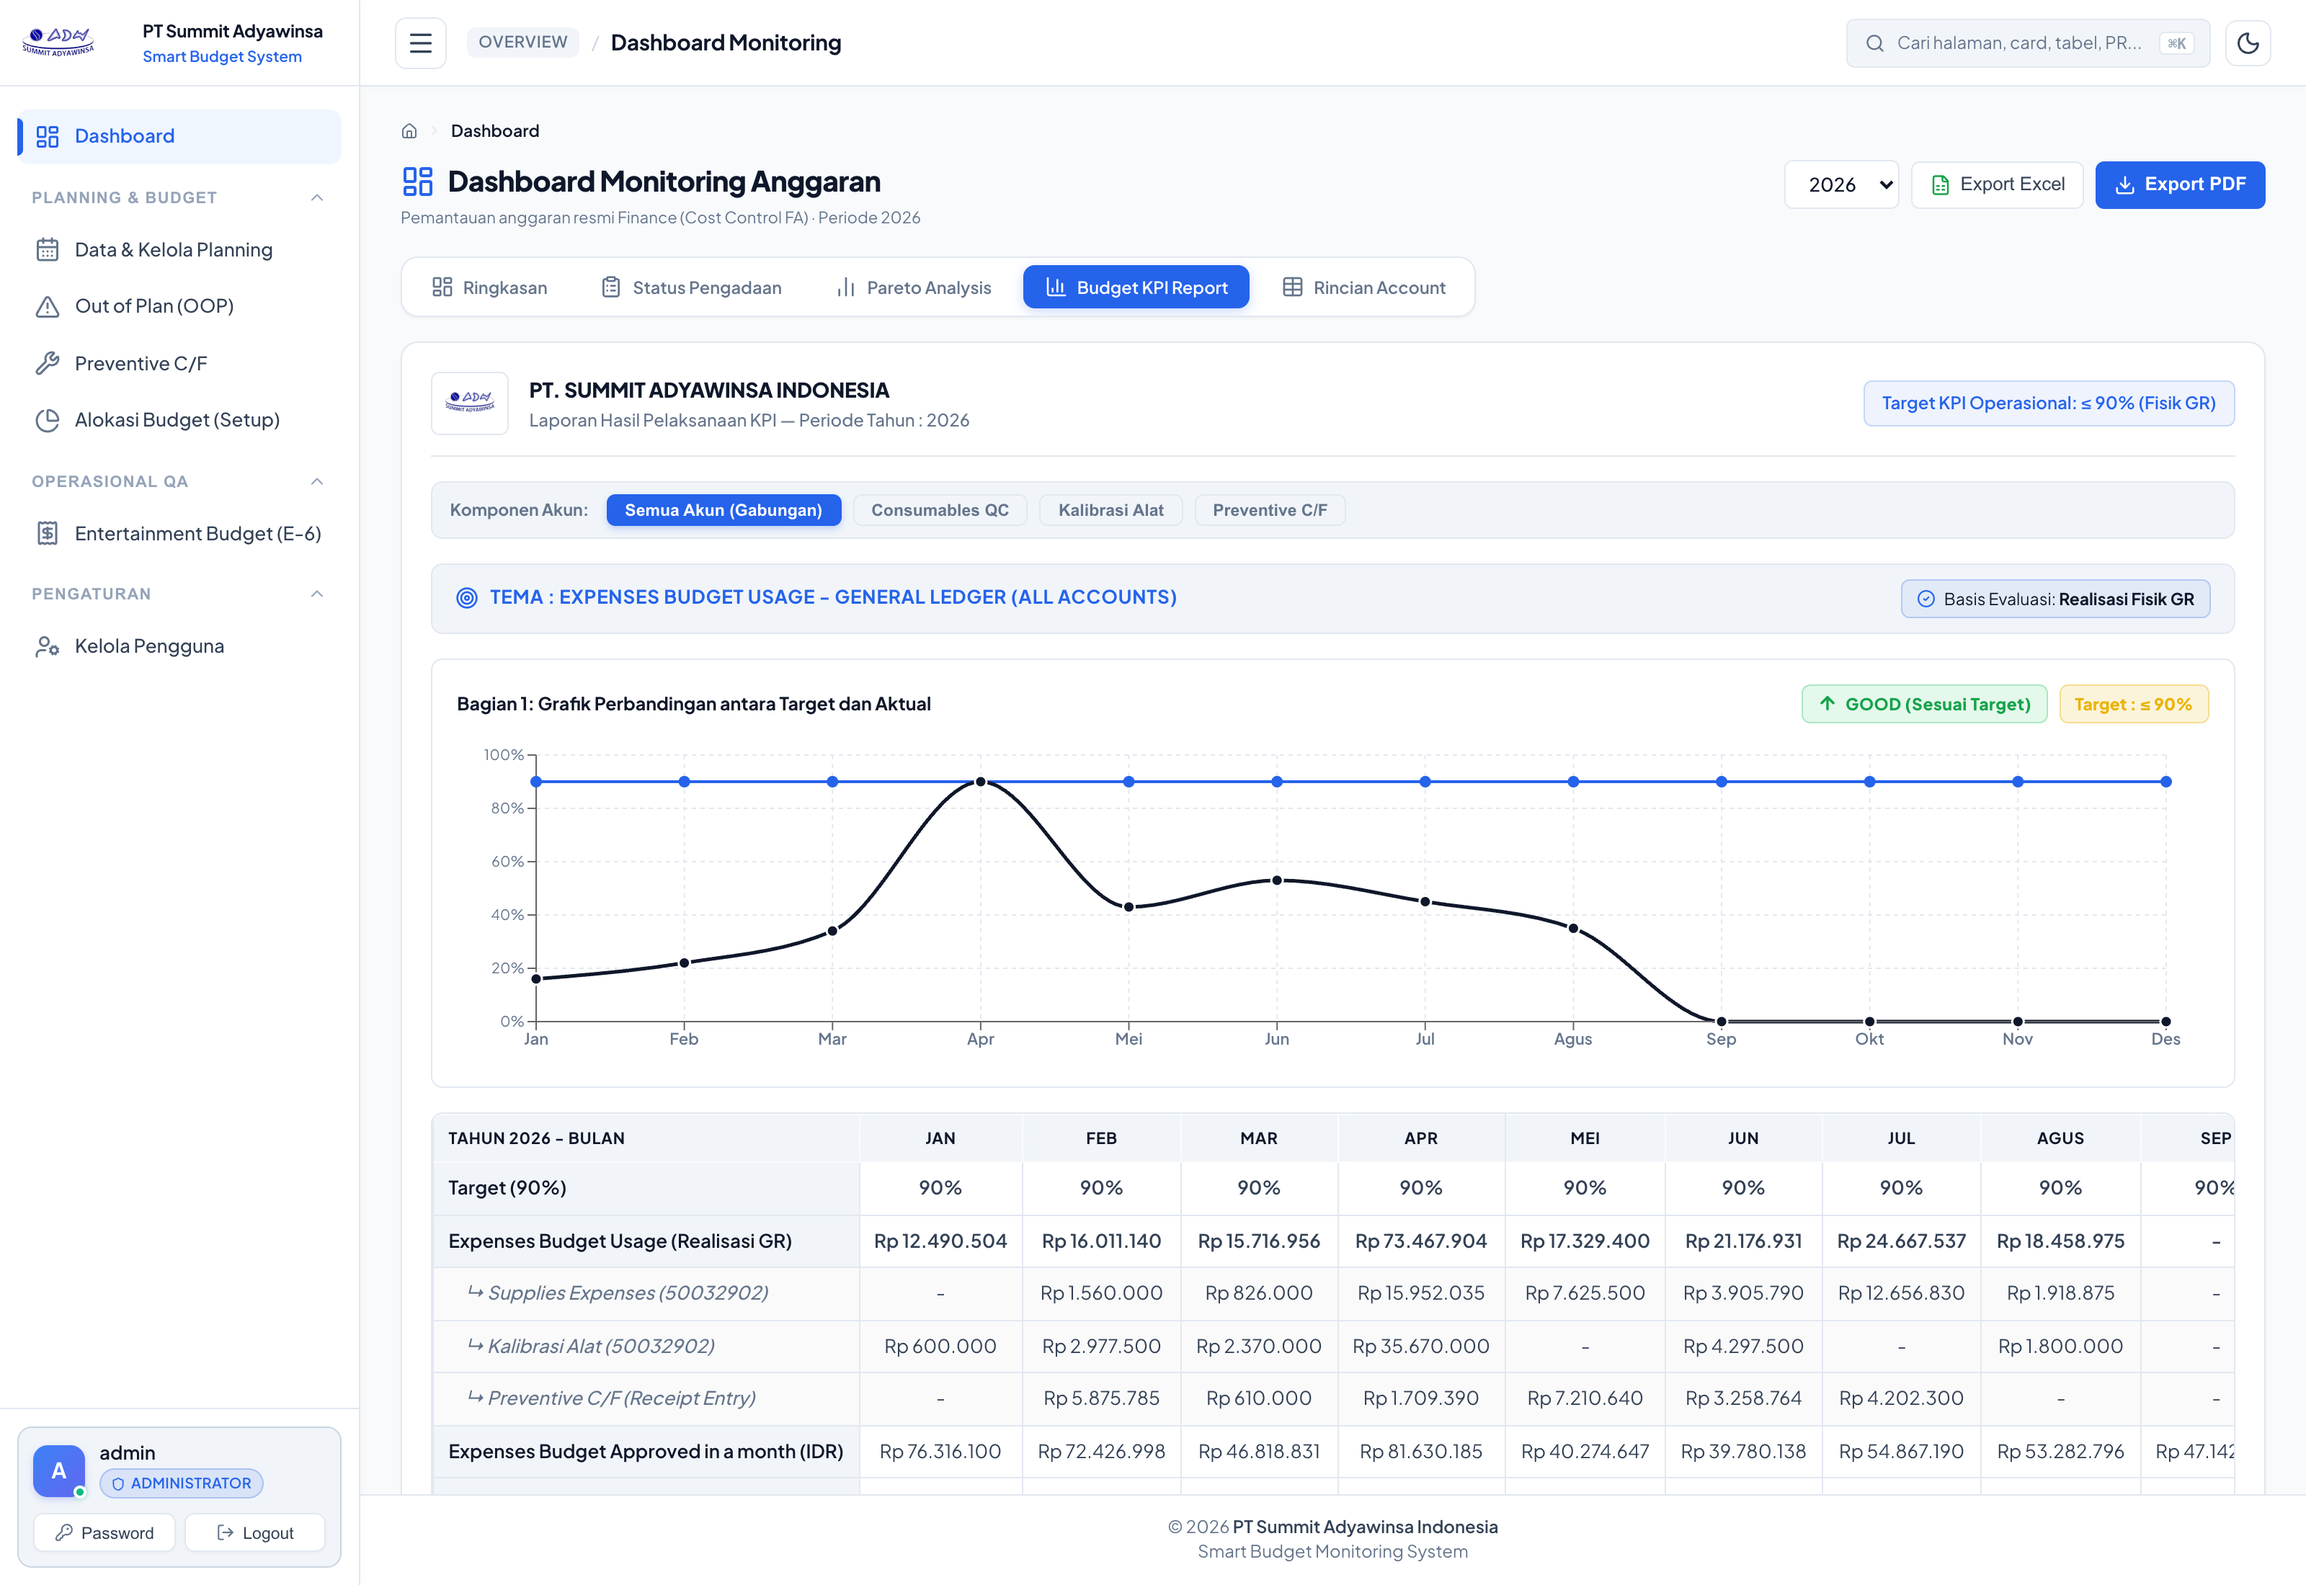
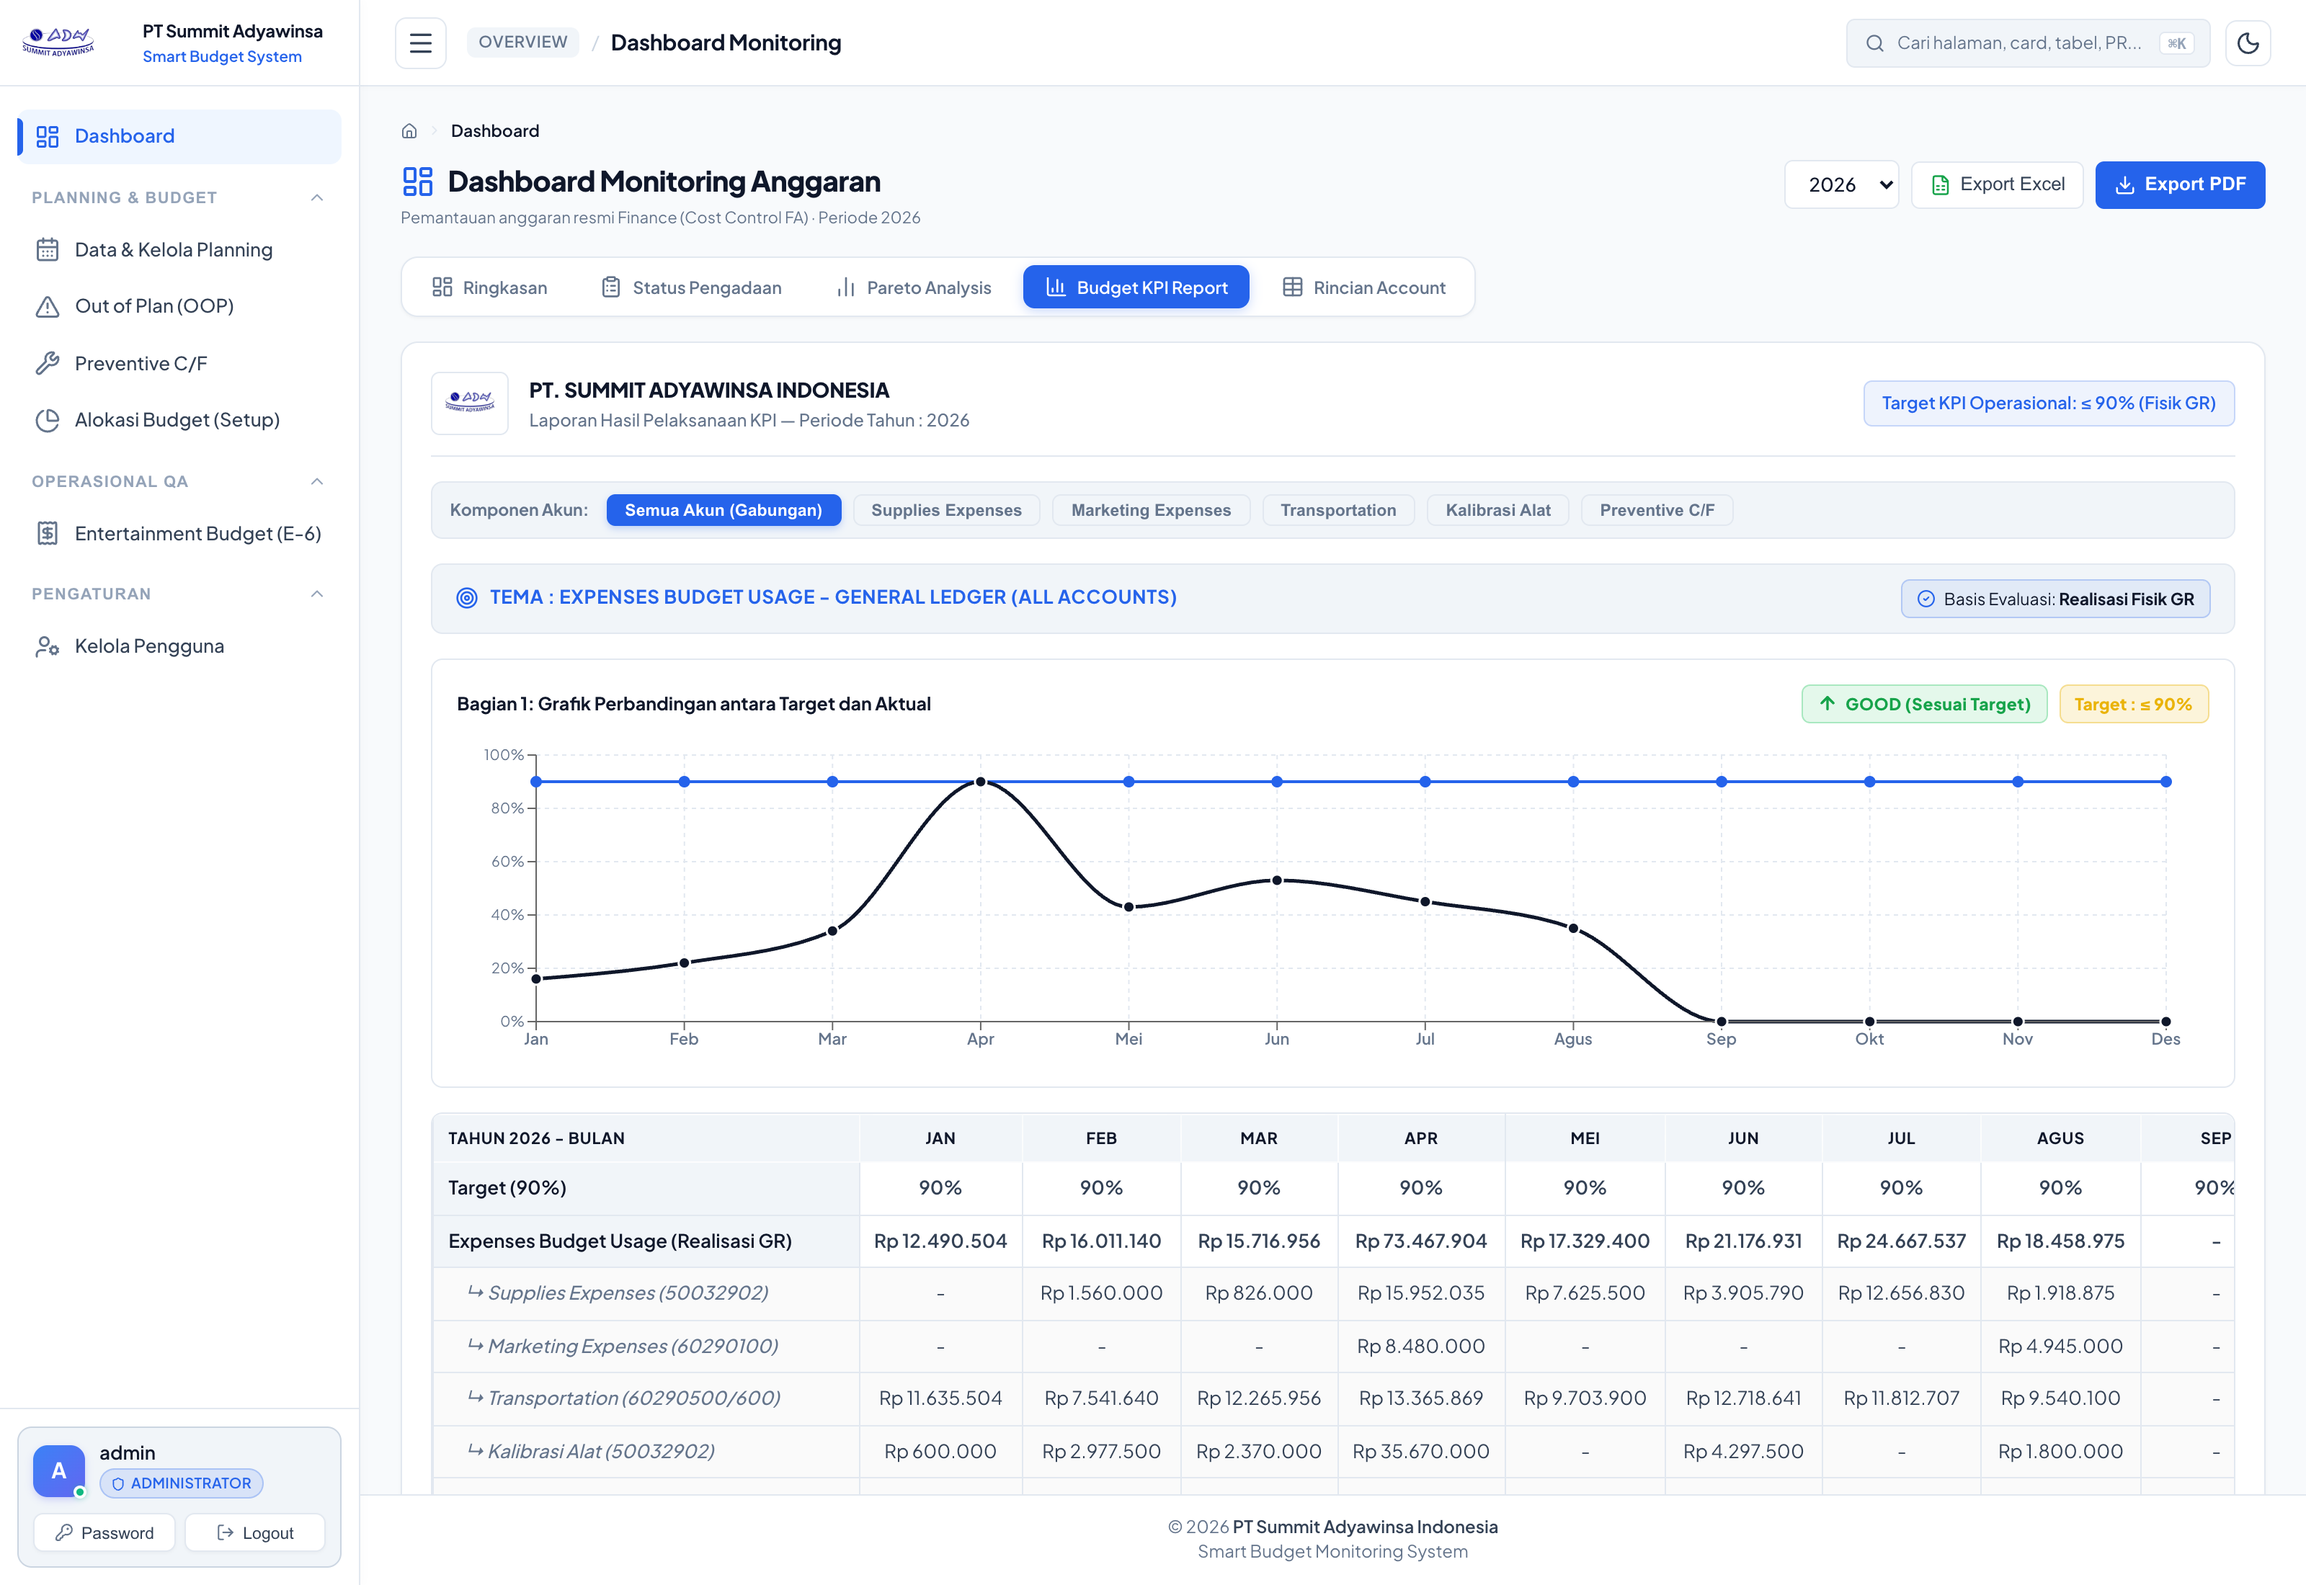
feat: align account components with Supplies Expenses, Marketing, Transportation, Kalibrasi, and Preventive

diff --git a/frontend/src/components/KpiBudgetUsageReport.jsx b/frontend/src/components/KpiBudgetUsageReport.jsx
@@ -16,7 +16,7 @@ export default function KpiBudgetUsageReport({
     monthlyData = []
 }) {
     const [themeType, setThemeType] = useState('opex') // 'opex' (Target ≤90%) | 'capex' (Target 100%)
-    const [opexSubTab, setOpexSubTab] = useState('ALL') // 'ALL' | 'E1' | 'E9_CAL' | 'E9_PREV'
+    const [opexSubTab, setOpexSubTab] = useState('ALL') // 'ALL' | 'E1' | 'MKT' | 'TRANS' | 'E9_CAL' | 'E9_PREV'
 
     const isOpex = themeType === 'opex'
     const targetKpi = isOpex ? 90 : 100
@@ -25,6 +25,8 @@ export default function KpiBudgetUsageReport({
     let themeLabel = 'ASSET BUDGET USAGE DEPT. (INVESTASI / CAPITAL)'
     if (isOpex) {
         if (opexSubTab === 'E1') themeLabel = 'EXPENSES BUDGET USAGE - SUPPLIES EXPENSES (50032902-123200)'
+        else if (opexSubTab === 'MKT') themeLabel = 'EXPENSES BUDGET USAGE - MARKETING EXPENSES (60290100-123200)'
+        else if (opexSubTab === 'TRANS') themeLabel = 'EXPENSES BUDGET USAGE - TRANSPORTATION EXPENSES (60290500/600)'
         else if (opexSubTab === 'E9_CAL') themeLabel = 'EXPENSES BUDGET USAGE - KALIBRASI ALAT UKUR (50032902-123200)'
         else if (opexSubTab === 'E9_PREV') themeLabel = 'EXPENSES BUDGET USAGE - PREVENTIVE C/F (50032902-123200)'
         else themeLabel = 'EXPENSES BUDGET USAGE - GENERAL LEDGER (ALL ACCOUNTS)'
@@ -34,6 +36,8 @@ export default function KpiBudgetUsageReport({
     let totalApproved = 0
     let totalUsage = 0
     let totalE1Usage = 0
+    let totalMktUsage = 0
+    let totalTransUsage = 0
     let totalE9CalUsage = 0
     let totalE9PrevUsage = 0
 
@@ -42,10 +46,14 @@ export default function KpiBudgetUsageReport({
         const mObj = monthlyData.find(m => m.month === key)
         
         const e1Usage = Number(mObj?.opex?.e1_expense?.actual_gr || 0)
+        const mktUsage = Number(mObj?.opex?.marketing?.actual_gr || 0)
+        const transUsage = Number(mObj?.opex?.transportation?.actual_gr || 0)
         const e9CalUsage = Number(mObj?.opex?.e9_calibration?.actual_gr || 0)
         const e9PrevUsage = Number(mObj?.opex?.e9_preventive?.actual_gr || 0)
 
         totalE1Usage += e1Usage
+        totalMktUsage += mktUsage
+        totalTransUsage += transUsage
         totalE9CalUsage += e9CalUsage
         totalE9PrevUsage += e9PrevUsage
 
@@ -59,6 +67,12 @@ export default function KpiBudgetUsageReport({
             if (opexSubTab === 'E1') {
                 approved = Number(mObj?.opex?.e1_expense?.plan || 0)
                 usage = e1Usage
+            } else if (opexSubTab === 'MKT') {
+                approved = Number(mObj?.opex?.marketing?.plan || 0)
+                usage = mktUsage
+            } else if (opexSubTab === 'TRANS') {
+                approved = Number(mObj?.opex?.transportation?.plan || 0)
+                usage = transUsage
             } else if (opexSubTab === 'E9_CAL') {
                 approved = Number(mObj?.opex?.e9_calibration?.plan || 0)
                 usage = e9CalUsage
@@ -85,6 +99,8 @@ export default function KpiBudgetUsageReport({
             approved,
             usage,
             e1Usage,
+            mktUsage,
+            transUsage,
             e9CalUsage,
             e9PrevUsage,
             pct: isRecorded ? pct : 0,
@@ -194,9 +210,23 @@ export default function KpiBudgetUsageReport({
                     <button
                         className={`${s.subTabBtn} ${opexSubTab === 'E1' ? s.active : ''}`}
                         onClick={() => setOpexSubTab('E1')}
-                        title="Supplies Expenses & Perlengkapan Kerja QC (50032902-123200)"
+                        title="Supplies Expenses & Perlengkapan Kerja QC (50032902)"
                     >
-                        Consumables QC
+                        Supplies Expenses
+                    </button>
+                    <button
+                        className={`${s.subTabBtn} ${opexSubTab === 'MKT' ? s.active : ''}`}
+                        onClick={() => setOpexSubTab('MKT')}
+                        title="Marketing Expenses (60290100)"
+                    >
+                        Marketing Expenses
+                    </button>
+                    <button
+                        className={`${s.subTabBtn} ${opexSubTab === 'TRANS' ? s.active : ''}`}
+                        onClick={() => setOpexSubTab('TRANS')}
+                        title="Transportation Expenses (60290500 / 60290600)"
+                    >
+                        Transportation
                     </button>
                     <button
                         className={`${s.subTabBtn} ${opexSubTab === 'E9_CAL' ? s.active : ''}`}
@@ -329,6 +359,20 @@ export default function KpiBudgetUsageReport({
                                         <td key={m.monthName}>{m.e1Usage > 0 ? formatRp(m.e1Usage) : '-'}</td>
                                     ))}
                                     <td>{formatRp(totalE1Usage)}</td>
+                                </tr>
+                                <tr className={s.subRow}>
+                                    <td className={s.rowHeaderSub}>&nbsp;&nbsp;↳ Marketing Expenses (60290100)</td>
+                                    {matrix.map(m => (
+                                        <td key={m.monthName}>{m.mktUsage > 0 ? formatRp(m.mktUsage) : '-'}</td>
+                                    ))}
+                                    <td>{formatRp(totalMktUsage)}</td>
+                                </tr>
+                                <tr className={s.subRow}>
+                                    <td className={s.rowHeaderSub}>&nbsp;&nbsp;↳ Transportation (60290500/600)</td>
+                                    {matrix.map(m => (
+                                        <td key={m.monthName}>{m.transUsage > 0 ? formatRp(m.transUsage) : '-'}</td>
+                                    ))}
+                                    <td>{formatRp(totalTransUsage)}</td>
                                 </tr>
                                 <tr className={s.subRow}>
                                     <td className={s.rowHeaderSub}>&nbsp;&nbsp;↳ Kalibrasi Alat (50032902)</td>

diff --git a/backend/services/pipeline_service.py b/backend/services/pipeline_service.py
@@ -331,7 +331,7 @@ class PipelineService:
 
         monthly_plan = {m: {'CAPEX': 0.0, 'OPEX': 0.0} for m in range(1, 13)}
         monthly_plan_sub = {
-            m: {'e1_expense': 0.0, 'e9_calibration': 0.0, 'e9_preventive': 0.0}
+            m: {'e1_expense': 0.0, 'marketing': 0.0, 'transportation': 0.0, 'e9_calibration': 0.0, 'e9_preventive': 0.0}
             for m in range(1, 13)
         }
         for row in planning_rows:
@@ -344,11 +344,16 @@ class PipelineService:
                 tipe = 'CAPEX' if row.tipe_formulir == 'CAPEX' else 'OPEX'
                 monthly_plan[m_num][tipe] += amt
                 item_upper = (row.item or '').upper()
+                kat_code = str(row.kat_kode or '')
                 if 'PREVENTIVE' in item_upper:
                     monthly_plan_sub[m_num]['e9_preventive'] += amt
                 elif 'KALIBRASI' in item_upper or 'CALIBRATION' in item_upper:
                     monthly_plan_sub[m_num]['e9_calibration'] += amt
-                elif row.kat_kode == '50032902-123200' or 'SUPPLIES' in item_upper:
+                elif kat_code.startswith('60290100') or 'MARKETING' in item_upper:
+                    monthly_plan_sub[m_num]['marketing'] += amt
+                elif kat_code.startswith('60290500') or kat_code.startswith('60290600') or 'TRANSPORT' in item_upper:
+                    monthly_plan_sub[m_num]['transportation'] += amt
+                elif kat_code.startswith('50032902') or 'SUPPLIES' in item_upper or 'CONSUMABLE' in item_upper:
                     monthly_plan_sub[m_num]['e1_expense'] += amt
 
         # 2. Ambil data Actual PR & GR (semua PR berstatus DONE) per bulan & per tipe form
@@ -376,11 +381,11 @@ class PipelineService:
         monthly_pr = {m: {'CAPEX': 0.0, 'OPEX': 0.0, 'count': 0} for m in range(1, 13)}
         monthly_gr = {m: {'CAPEX': 0.0, 'OPEX': 0.0} for m in range(1, 13)}
         monthly_pr_sub = {
-            m: {'e1_expense': 0.0, 'e9_calibration': 0.0, 'e9_preventive': 0.0}
+            m: {'e1_expense': 0.0, 'marketing': 0.0, 'transportation': 0.0, 'e9_calibration': 0.0, 'e9_preventive': 0.0}
             for m in range(1, 13)
         }
         monthly_gr_sub = {
-            m: {'e1_expense': 0.0, 'e9_calibration': 0.0, 'e9_preventive': 0.0}
+            m: {'e1_expense': 0.0, 'marketing': 0.0, 'transportation': 0.0, 'e9_calibration': 0.0, 'e9_preventive': 0.0}
             for m in range(1, 13)
         }
 
@@ -396,9 +401,10 @@ class PipelineService:
                 if has_gr:
                     monthly_gr[m_num][tipe] += amt
 
-                # Sub-component breakdown (Consumables, Kalibrasi, Preventive)
+                # Sub-component breakdown (Supplies, Marketing, Transportation, Kalibrasi, Preventive)
                 p_item = (row.plan_item or '').upper()
                 desc = (row.description or '').upper()
+                kat_code = str(row.kat_kode or '')
                 if 'PREVENTIVE' in p_item or 'PREVENTIVE' in desc:
                     monthly_pr_sub[m_num]['e9_preventive'] += amt
                     if has_gr:
@@ -407,7 +413,15 @@ class PipelineService:
                     monthly_pr_sub[m_num]['e9_calibration'] += amt
                     if has_gr:
                         monthly_gr_sub[m_num]['e9_calibration'] += amt
-                elif row.kat_kode == '50032902-123200' or 'SUPPLIES' in desc or 'CONSUMABLE' in desc:
+                elif kat_code.startswith('60290100') or 'MARKETING' in desc:
+                    monthly_pr_sub[m_num]['marketing'] += amt
+                    if has_gr:
+                        monthly_gr_sub[m_num]['marketing'] += amt
+                elif kat_code.startswith('60290500') or kat_code.startswith('60290600') or 'TRANSPORT' in desc:
+                    monthly_pr_sub[m_num]['transportation'] += amt
+                    if has_gr:
+                        monthly_gr_sub[m_num]['transportation'] += amt
+                elif kat_code.startswith('50032902') or 'SUPPLIES' in desc or 'CONSUMABLE' in desc:
                     monthly_pr_sub[m_num]['e1_expense'] += amt
                     if has_gr:
                         monthly_gr_sub[m_num]['e1_expense'] += amt
@@ -465,6 +479,14 @@ class PipelineService:
             e1_pr = monthly_pr_sub[m]['e1_expense']
             e1_gr = monthly_gr_sub[m]['e1_expense']
 
+            mkt_plan = monthly_plan_sub[m]['marketing']
+            mkt_pr = monthly_pr_sub[m]['marketing']
+            mkt_gr = monthly_gr_sub[m]['marketing']
+
+            trans_plan = monthly_plan_sub[m]['transportation']
+            trans_pr = monthly_pr_sub[m]['transportation']
+            trans_gr = monthly_gr_sub[m]['transportation']
+
             e9_cal_plan = monthly_plan_sub[m]['e9_calibration']
             e9_cal_pr = monthly_pr_sub[m]['e9_calibration']
             e9_cal_gr = monthly_gr_sub[m]['e9_calibration']
@@ -504,6 +526,22 @@ class PipelineService:
                         "actual_gr": e1_gr,
                         "persen_pr": round((e1_pr / e1_plan) * 100) if e1_plan > 0 else 0,
                         "persen_gr": round((e1_gr / e1_plan) * 100) if e1_plan > 0 else 0,
+                    },
+                    "marketing": {
+                        "name": "Marketing Expenses (60290100)",
+                        "plan": mkt_plan,
+                        "actual_pr": mkt_pr,
+                        "actual_gr": mkt_gr,
+                        "persen_pr": round((mkt_pr / mkt_plan) * 100) if mkt_plan > 0 else 0,
+                        "persen_gr": round((mkt_gr / mkt_plan) * 100) if mkt_plan > 0 else 0,
+                    },
+                    "transportation": {
+                        "name": "Transportation Expenses (60290500/600)",
+                        "plan": trans_plan,
+                        "actual_pr": trans_pr,
+                        "actual_gr": trans_gr,
+                        "persen_pr": round((trans_pr / trans_plan) * 100) if trans_plan > 0 else 0,
+                        "persen_gr": round((trans_gr / trans_plan) * 100) if trans_plan > 0 else 0,
                     },
                     "e9_calibration": {
                         "name": "Kalibrasi Alat (50032902)",
